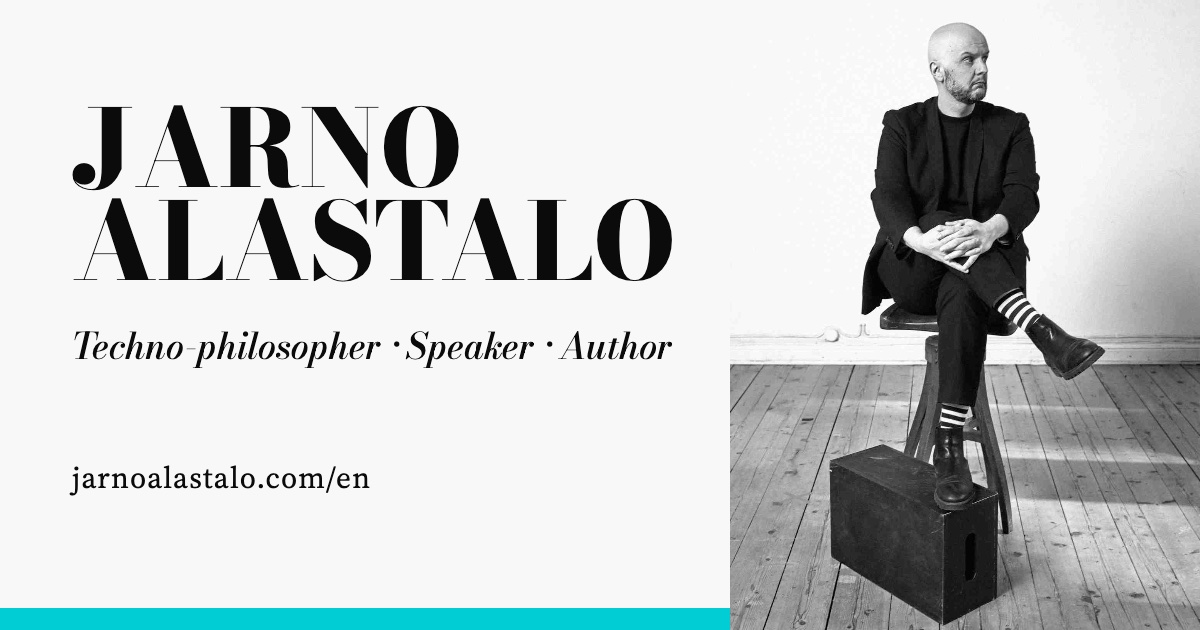
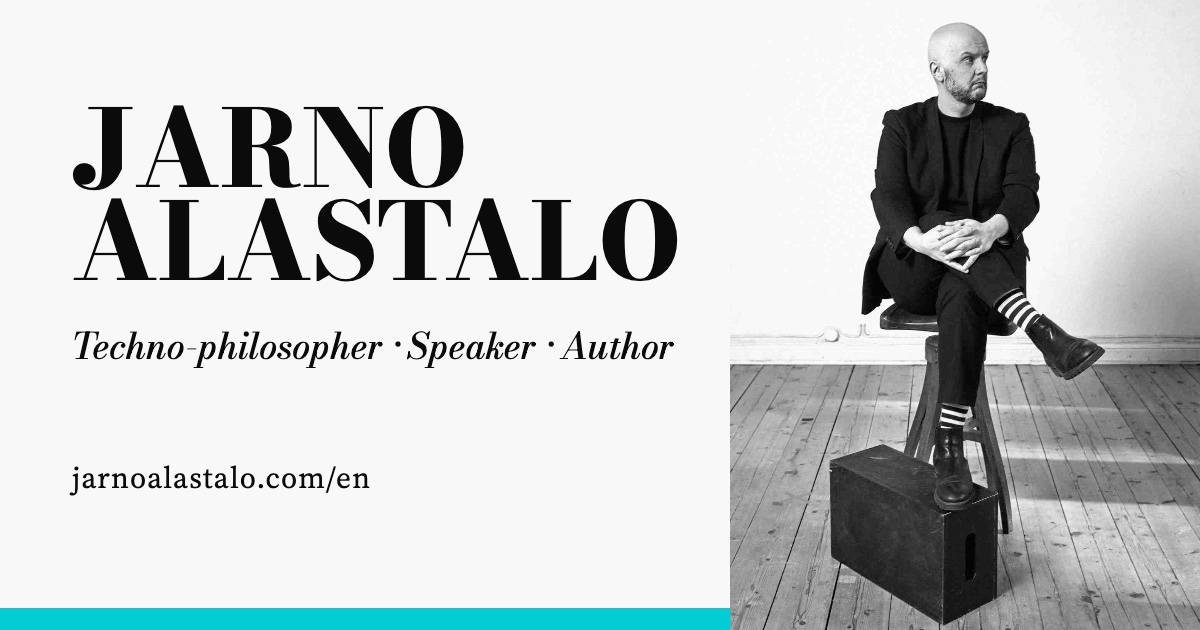
Bodonin hiusviivat paksummiksi (opsz 14), jakokuvat uudelleen

diff --git a/tyyli.css b/tyyli.css
@@ -22,6 +22,10 @@ img { display: block; max-width: 100%; height: auto; }
 a { color: inherit; text-decoration-thickness: 1px; text-underline-offset: 0.18em; }
 a:hover { text-decoration-thickness: 2px; }
 h1, h2, h3 { font-family: var(--otsikko); font-weight: 700; line-height: 1.05; margin: 0; }
+/* Bodoni Moda ohentaa hiusviivat isoissa koissa; kiinteä optinen koko pitää ne luettavina */
+h1, h2, h3, .ylapalkki .nimi, .titteli, .sitaatti blockquote, .alaotsikko, .nosto, .palaute p, .yhteys .osoite {
+  font-variation-settings: "opsz" 14;
+}
 p { margin: 0 0 1em; }
 
 .sisalto { max-width: var(--leveys); margin: 0 auto; padding: 0 24px; }
